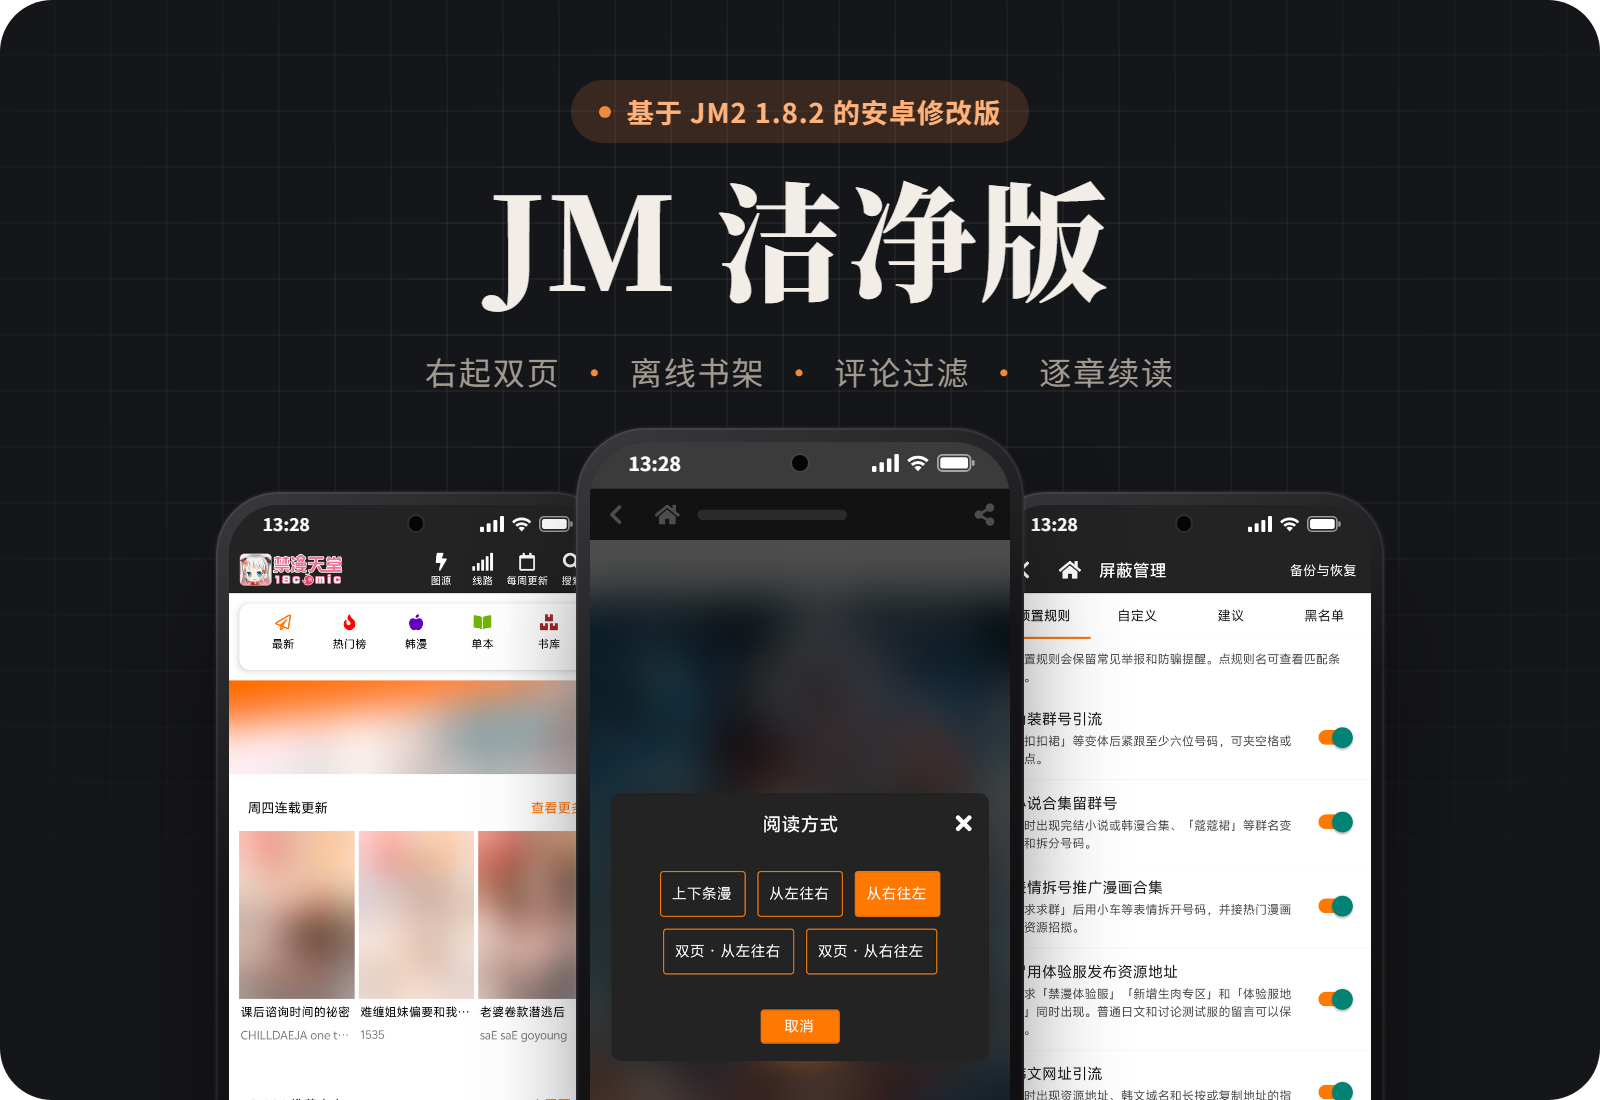
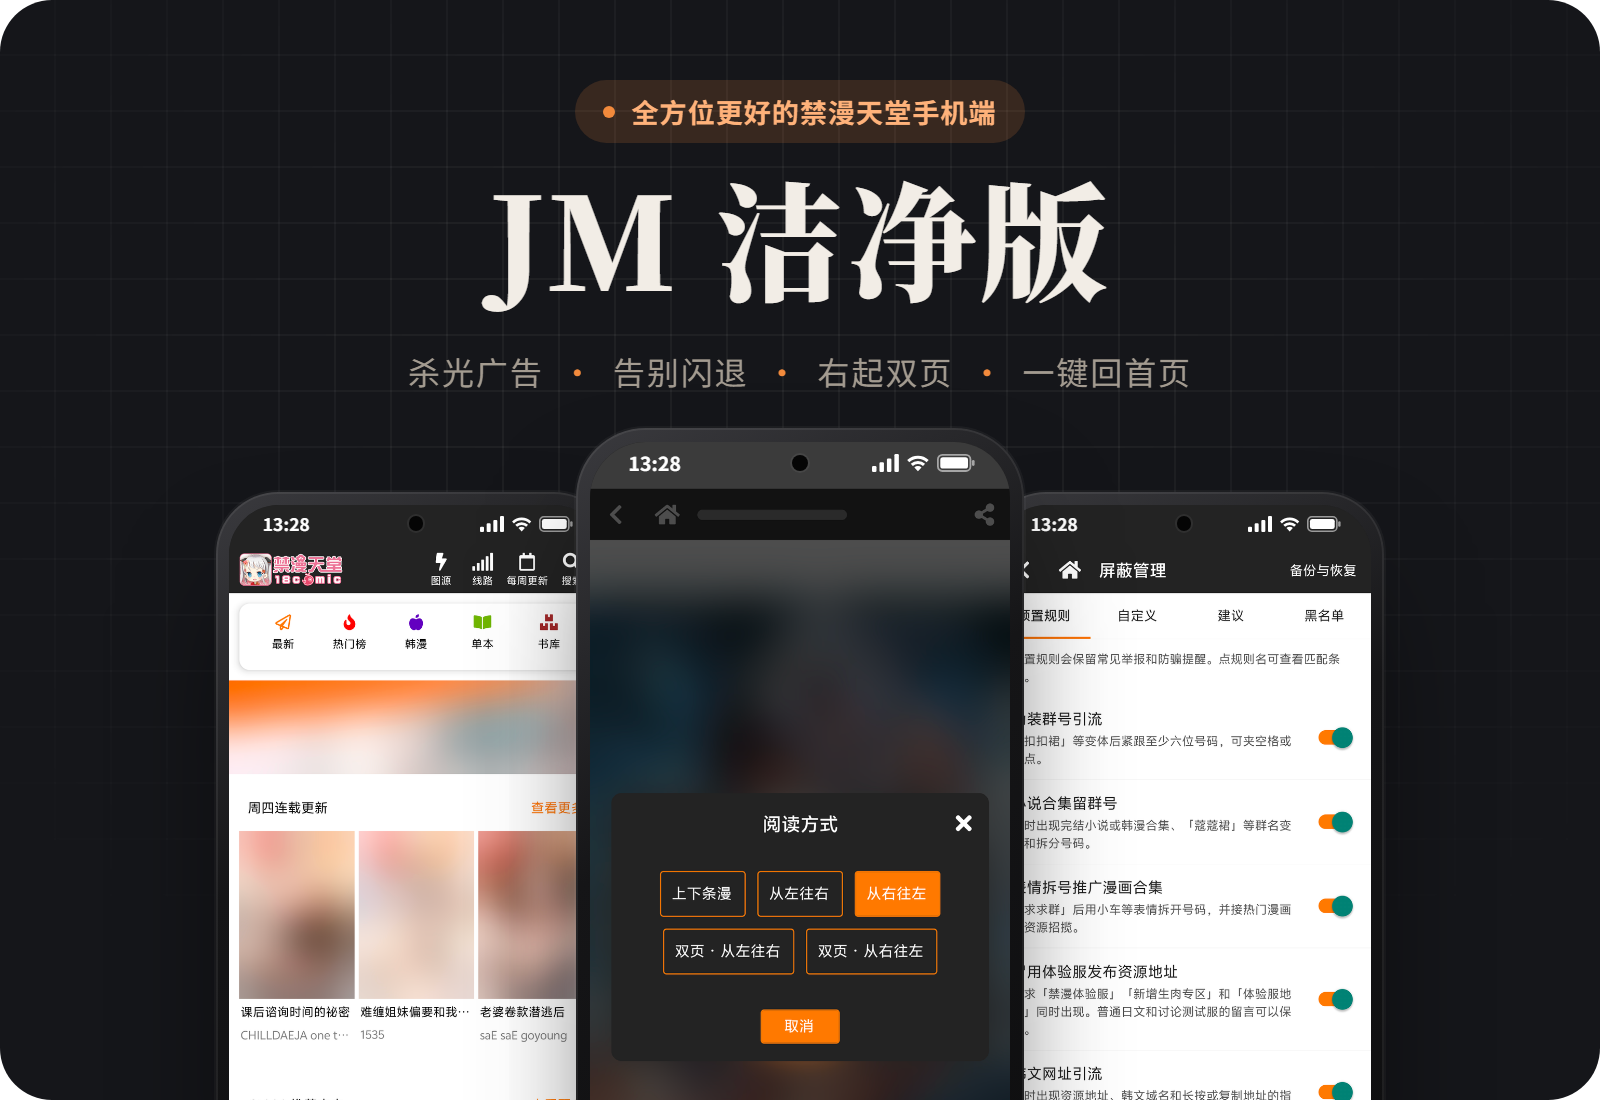
重写 README 开头与主图标语：杀光广告、告别闪退、更好的阅读页、一键回首页

diff --git a/README.md b/README.md
@@ -15,7 +15,14 @@
 
 <br>
 
-JM 洁净版是基于 JM2 1.8.2 的非官方安卓修改版。首页、分类、讨论区、个人中心四个入口和原版的推荐编排都保留着；游戏、小电影、博客和开屏推广去掉了，补上了右起双页、离线书架、逐章续读和评论过滤。
+**一个全方位更好的禁漫天堂手机端。**
+
+- **杀光广告**：从开屏、首页推荐流到讨论区和阅读页，推广位一路清掉；评论区的引流广告交给预置规则和自动学习，拉黑过的格式下次自动拦。
+- **告别闪退**：原版一用就闪退、卡在加载的毛病逐个修过，线路、搜索、续读的逻辑全部重新梳理。
+- **更好的阅读页**：右起双页、自动翻页、离线 ZIP 书架，每章读到第几页都记在本机。
+- **层层深入，一键回首页**：点标签、作者、相关作品可以一层层往里翻，返回键逐层退回；每一层顶部都有房子按钮，一下回到最外层。
+
+基于 JM2 1.8.2 改造，首页、分类、讨论区、个人中心四个入口和原版的推荐编排都在，游戏、小电影、博客这些用不上的模块已经砍掉。
 
 ## 阅读
 
